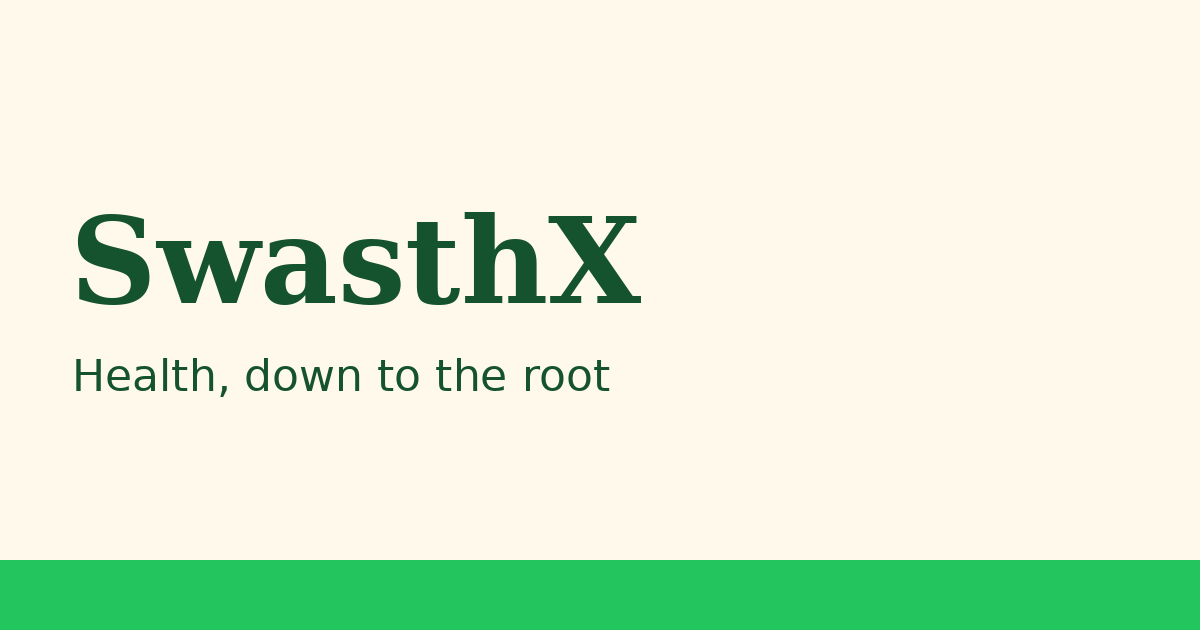
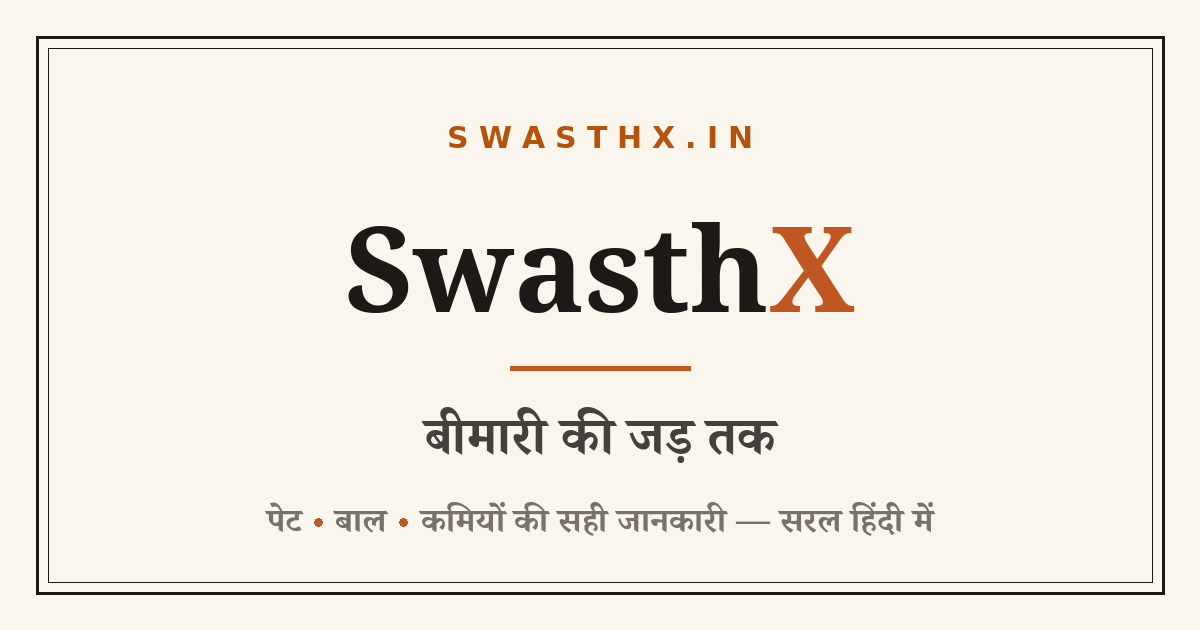
Re-skin: Warm Editorial theme (owner rejected green)

diff --git a/src/styles.css b/src/styles.css
@@ -1,5 +1,5 @@
-/* SwasthX — family-health styles on the KismatUnlock system language.
-   Cream + deep green, soft cards, trust-first. Mobile-first, 48px targets. */
+/* SwasthX — Warm Editorial styles: ivory paper, ink text, hairline rules,
+   terracotta + marigold accents, newspaper feel. Mobile-first, 48px targets. */
 * { box-sizing: border-box; }
 html { scroll-behavior: smooth; }
 body {
@@ -18,9 +18,9 @@ a { color: var(--color-primary); }
 /* Header */
 .site-header {
   position: sticky; top: 0; z-index: 40; display: flex; align-items: center; gap: 0.9rem; flex-wrap: wrap;
-  padding: 0.6rem 1.1rem; background: rgba(255, 249, 236, 0.96); border-bottom: 1px solid var(--color-border); backdrop-filter: blur(6px);
+  padding: 0.6rem 1.1rem; background: rgba(250, 246, 238, 0.96); border-bottom: 3px double var(--rule-strong); backdrop-filter: blur(6px);
 }
-[data-theme="dark"] .site-header { background: rgba(12, 23, 16, 0.96); }
+[data-theme="dark"] .site-header { background: rgba(23, 19, 16, 0.96); }
 .logo { display: flex; align-items: center; gap: 0.55rem; text-decoration: none; color: var(--color-text); margin-right: auto; }
 .logo-leaf { font-size: 1.5rem; }
 .logo-name { font-family: var(--font-display-latin); font-weight: 700; font-size: 1.45rem; color: var(--color-primary); }
@@ -31,23 +31,23 @@ a { color: var(--color-primary); }
 .lang-toggle { display: flex; border: 1.5px solid var(--color-border); border-radius: 999px; overflow: hidden; }
 .lang-toggle button { border: 0; background: transparent; color: var(--color-text); padding: 0.45rem 0.85rem; font-weight: 700; min-height: 40px; cursor: pointer; font-family: inherit; }
 .lang-toggle button.on { background: var(--color-primary); color: #fff; }
-.theme-toggle { border: 1.5px solid var(--color-border); background: var(--cream-2); color: var(--color-text); border-radius: 999px; min-width: 44px; min-height: 40px; font-size: 1.05rem; cursor: pointer; }
+.theme-toggle { border: 1.5px solid var(--color-border); background: var(--paper-2); color: var(--color-text); border-radius: 999px; min-width: 44px; min-height: 40px; font-size: 1.05rem; cursor: pointer; }
 
 /* Popup */
 .popup-scrim { position: fixed; inset: 0; z-index: 50; background: rgba(28, 36, 32, 0.55); display: flex; align-items: center; justify-content: center; padding: 1rem; }
-.popup { background: var(--cream-2); border: 1.5px solid var(--green-500); border-radius: var(--radius-xl); padding: 2rem; max-width: 420px; width: 100%; text-align: center; display: grid; gap: 0.8rem; box-shadow: var(--card-shadow-hover); }
+.popup { background: var(--paper-2); border: 1px solid var(--color-border); border-top: 3px solid var(--color-primary); border-radius: var(--radius-xl); padding: 2rem; max-width: 420px; width: 100%; text-align: center; display: grid; gap: 0.8rem; box-shadow: var(--card-shadow-hover); }
 
 /* Hero / tip */
 .hero { padding: 1.4rem 0 0.4rem; }
 .hero-sub { font-size: 1.1rem; color: var(--color-text-2); max-width: 620px; }
-.tip-card { border: 2px solid var(--green-500); background: var(--card-bg); border-radius: var(--radius-xl); padding: 1.5rem; box-shadow: var(--card-shadow); }
+.tip-card { border: 1px solid var(--color-border); border-top: 3px solid var(--color-accent); background: var(--card-bg); border-radius: var(--radius-xl); padding: 1.5rem; box-shadow: var(--card-shadow); }
 .tip-card .chip { margin-bottom: 0.6rem; }
 .feature-grid { display: grid; gap: 1.1rem; grid-template-columns: 1fr; margin: 1.1rem 0; }
 @media (min-width: 860px) { .feature-grid { grid-template-columns: 1.4fr 1fr; } }
 
 /* Cards & grids */
 .card { background: var(--card-bg); border: var(--card-border); border-radius: var(--radius-lg); box-shadow: var(--card-shadow); padding: 1.25rem; }
-.section-title { margin: 2.1rem 0 1rem; }
+.section-title { margin: 2.1rem 0 1rem; border-top: 1px solid var(--color-border); padding-top: 1.3rem; }
 .two-col { display: grid; gap: 1rem; grid-template-columns: 1fr; }
 @media (min-width: 700px) { .two-col { grid-template-columns: 1fr 1fr; } }
 .three-col { display: grid; gap: 1rem; grid-template-columns: 1fr; }
@@ -57,15 +57,15 @@ a { color: var(--color-primary); }
 .tool-card:active, .story-card:active { transform: scale(0.985); }
 .tool-card strong, .story-card strong { display: block; font-size: 1.05rem; margin-bottom: 0.25rem; }
 .tool-card span, .story-card span { color: var(--color-text-2); font-size: 0.94rem; }
-.chip { display: inline-block; background: var(--green); color: #fff; border-radius: 999px; padding: 0.18rem 0.7rem; font-size: 0.78rem; font-weight: 700; }
-[data-theme="dark"] .chip { background: #166534; }
+.chip { display: inline-block; background: var(--color-accent); color: #fff; border-radius: 999px; padding: 0.18rem 0.7rem; font-size: 0.78rem; font-weight: 700; letter-spacing: 0.04em; }
+[data-theme="dark"] .chip { background: var(--color-accent); color: #171310; }
 .stack { display: grid; gap: 1rem; }
 
 /* Buttons */
 .btn { display: inline-flex; align-items: center; justify-content: center; gap: 0.4rem; border-radius: var(--radius); min-height: 48px; padding: 0.7rem 1.3rem; font-weight: 700; font-size: 1rem; text-decoration: none; border: 1px solid transparent; cursor: pointer; transition: transform 100ms ease-out, background-color 150ms ease-out; font-family: inherit; }
 .btn:active { transform: scale(0.97); }
 .btn-primary { background: var(--btn-bg); color: var(--btn-text); }
-.btn-ghost { background: var(--cream-2); border-color: var(--green-500); color: var(--color-primary); }
+.btn-ghost { background: var(--paper-2); border-color: var(--color-primary); color: var(--color-primary); }
 .btn.big { width: 100%; }
 
 /* Tools */
@@ -73,7 +73,7 @@ a { color: var(--color-primary); }
 @media (min-width: 640px) { .tool-form { grid-template-columns: 1fr 1fr; } }
 .field { display: flex; flex-direction: column; gap: 0.3rem; font-weight: 600; font-size: 0.95rem; }
 .tool-form input, .tool-form select { min-height: 48px; border: 1.5px solid var(--color-border); border-radius: var(--radius); padding: 0.6rem 0.85rem; font-size: 1rem; font-family: inherit; background: var(--color-surface); color: var(--color-text); width: 100%; }
-.result-card { background: var(--cream-2); border: 1.5px solid var(--green-500); border-radius: var(--radius-lg); padding: 1.2rem; margin: 1rem 0; }
+.result-card { background: var(--paper-2); border: 1px solid var(--color-border); border-top: 3px solid var(--color-accent); border-radius: var(--radius-lg); padding: 1.2rem; margin: 1rem 0; }
 .result-grid { display: grid; gap: 0.9rem; grid-template-columns: repeat(auto-fit, minmax(140px, 1fr)); }
 .result-item label { display: block; font-size: 0.8rem; font-weight: 700; color: var(--color-text-muted); }
 .result-item strong { font-size: 1.4rem; }
@@ -82,33 +82,34 @@ a { color: var(--color-primary); }
 .note.warn { color: var(--red); font-weight: 600; }
 .steps-list { margin: 0; padding-left: 1.25rem; display: grid; gap: 0.5rem; }
 .check-row { display: flex; gap: 0.6rem; align-items: flex-start; padding: 0.55rem 0; border-top: 1px solid var(--color-border); font-weight: 500; }
-.check-row input { width: 22px; height: 22px; margin-top: 0.15rem; accent-color: var(--green); flex: none; }
+.check-row input { width: 22px; height: 22px; margin-top: 0.15rem; accent-color: var(--color-primary); flex: none; }
 
 /* Article trust system */
 .article { max-width: 780px; }
 .article-intro { font-size: 1.12rem; color: var(--color-text-2); }
-.reviewer-line { display: flex; gap: 0.6rem; align-items: center; background: var(--cream-2); border: 1px solid var(--color-border); border-radius: var(--radius-lg); padding: 0.8rem 1rem; font-size: 0.93rem; margin-bottom: 1.2rem; flex-wrap: wrap; }
+.reviewer-line { display: flex; gap: 0.6rem; align-items: center; background: var(--paper-2); border: 1px solid var(--color-border); border-radius: var(--radius-lg); padding: 0.8rem 1rem; font-size: 0.93rem; margin-bottom: 1.2rem; flex-wrap: wrap; }
 .article h2 { margin-top: 1.7rem; }
 .redflag-box { border: 2px solid var(--red); background: var(--red-bg); border-radius: var(--radius-lg); padding: 1.1rem 1.25rem; margin: 1.5rem 0; }
 .redflag-box h2, .redflag-box h3 { color: var(--red); margin-top: 0; }
 .sources-list { font-size: 0.9rem; color: var(--color-text-2); border-top: 1px solid var(--color-border); padding-top: 1rem; margin-top: 1.6rem; }
 .sources-list li { margin-bottom: 0.3rem; }
-.trust-strip { background: var(--green); color: #eafbea; border-radius: var(--radius-xl); padding: 1.4rem; margin: 1.6rem 0; }
-[data-theme="dark"] .trust-strip { background: #14532d; }
+.trust-strip { background: var(--ink); color: #f3ede2; border-radius: var(--radius-xl); padding: 1.4rem; margin: 1.6rem 0; }
+[data-theme="dark"] .trust-strip { background: var(--color-surface); border: 1px solid var(--color-border); }
 .trust-strip h2 { color: #fff; }
-.trust-strip p { color: #d9f2d9; margin: 0; }
+.trust-strip p { color: #ddd3bf; margin: 0; }
+[data-theme="dark"] .trust-strip p { color: var(--color-text-2); }
 
 /* Affiliate product card */
 .product-card { margin: 1.6rem 0; }
 .product-card h2 { margin-top: 0; }
 .product-list { list-style: none; margin: 0 0 0.8rem; padding: 0; display: grid; gap: 0.6rem; }
 .product-list a { display: flex; justify-content: space-between; align-items: center; gap: 0.8rem; min-height: 48px; padding: 0.6rem 0.85rem; border: 1.5px solid var(--color-border); border-radius: var(--radius); text-decoration: none; color: var(--color-text); font-weight: 600; background: var(--color-surface); }
-.product-list a:hover { border-color: var(--green-500); }
+.product-list a:hover { border-color: var(--color-primary); }
 .product-cta { color: var(--color-primary); font-size: 0.92rem; white-space: nowrap; }
 .product-disclosure { font-size: 0.82rem; margin: 0; }
 
 /* Footer */
-.site-footer { border-top: 1px solid var(--color-border); margin-top: 3rem; padding: 1.6rem 1.1rem 2.4rem; text-align: center; }
+.site-footer { border-top: 3px double var(--rule-strong); margin-top: 3rem; padding: 1.6rem 1.1rem 2.4rem; text-align: center; }
 .site-footer .disclaimer { max-width: 720px; margin: 0.6rem auto; color: var(--color-text-2); font-size: 0.9rem; }
 .muted { color: var(--color-text-muted); font-size: 0.88rem; }
 .ad-slot { min-height: 90px; display: flex; align-items: center; justify-content: center; margin: 1.2rem 0; }

diff --git a/src/tokens.css b/src/tokens.css
@@ -1,38 +1,40 @@
-/* SwasthX — green sibling of the KismatUnlock family system: warm cream,
-   deep green primary, Playfair + Noto Sans, dark = deep green night. */
+/* SwasthX — Warm Editorial: warm ivory paper, terracotta + marigold accents,
+   ink text, hairline rules instead of shadows, Playfair + Noto Sans.
+   Dark = warm charcoal-brown night. (Owner rejected the old deep-green
+   theme on 2026-10-13.) */
 :root {
-  --green-900: #0b3520;
-  --green: #14532d;
-  --green-soft: #1d6b3c;
-  --green-500: #22c55e;
-  --gold: #d97706;
-  --cream: #fff9ec;
-  --cream-2: #fffdf6;
-  --ink: #1c2420;
-  --ink-2: #44503f;
-  --muted: #75816f;
+  --terra: #c05621;
+  --terra-deep: #9c4218;
+  --marigold: #b45309;
+  --paper: #faf6ee;
+  --paper-2: #fcfbf7;
+  --ink: #1c1917;
+  --ink-2: #44403c;
+  --muted: #78716c;
+  --line: #e5dfd2;
+  --rule-strong: #1c1917;
   --red: #b91c1c;
   --red-bg: #fdeaea;
 
-  --color-primary: var(--green);
-  --color-primary-deep: var(--green-900);
-  --color-accent: var(--gold);
-  --color-bg: var(--cream);
+  --color-primary: var(--terra);
+  --color-primary-deep: var(--terra-deep);
+  --color-accent: var(--marigold);
+  --color-bg: var(--paper);
   --color-surface: #ffffff;
   --color-text: var(--ink);
   --color-text-2: var(--ink-2);
   --color-text-muted: var(--muted);
-  --color-border: rgba(20, 83, 45, 0.28);
+  --color-border: var(--line);
 
   --btn-bg: var(--color-primary);
   --btn-text: #ffffff;
   --card-bg: var(--color-surface);
   --card-border: 1px solid var(--color-border);
-  --card-shadow: 0 4px 20px -2px rgba(20, 83, 45, 0.06), 0 2px 6px -1px rgba(217, 119, 6, 0.05);
-  --card-shadow-hover: 0 10px 25px -4px rgba(20, 83, 45, 0.12), 0 4px 10px -2px rgba(217, 119, 6, 0.08);
-  --radius: 8px;
-  --radius-lg: 16px;
-  --radius-xl: 24px;
+  --card-shadow: 0 1px 2px rgba(28, 25, 23, 0.04);
+  --card-shadow-hover: 0 3px 10px -2px rgba(28, 25, 23, 0.12);
+  --radius: 6px;
+  --radius-lg: 8px;
+  --radius-xl: 10px;
 
   --font-display: "Tiro Devanagari Hindi", "Playfair Display", serif;
   --font-display-latin: "Playfair Display", "Tiro Devanagari Hindi", serif;
@@ -40,18 +42,29 @@
 }
 
 [data-theme="dark"] {
-  --color-primary: #4ade80;
-  --color-primary-deep: #bbf7d0;
-  --color-bg: #0c1710;
-  --color-surface: #14231a;
-  --color-text: #eaf3e4;
-  --color-text-2: #c3d4b8;
-  --color-text-muted: #93a58a;
-  --color-border: rgba(74, 222, 128, 0.35);
-  --cream: #16281c;
-  --cream-2: #122016;
+  --terra: #e08a4c;
+  --terra-deep: #eda76b;
+  --marigold: #e19a3c;
+  --paper: #171310;
+  --paper-2: #241d16;
+  --ink: #f3ede2;
+  --ink-2: #d8cfc2;
+  --muted: #a39887;
+  --line: #3e362c;
+  --rule-strong: #4a4036;
+
+  --color-primary: var(--terra);
+  --color-primary-deep: var(--terra-deep);
+  --color-accent: var(--marigold);
+  --color-bg: #171310;
+  --color-surface: #221c16;
+  --color-text: #f3ede2;
+  --color-text-2: #d8cfc2;
+  --color-text-muted: #a39887;
+  --color-border: var(--line);
   --red-bg: #450a0a;
-  --btn-bg: #166534;
-  --card-shadow: 0 4px 20px -2px rgba(0, 0, 0, 0.5);
-  --card-shadow-hover: 0 10px 25px -4px rgba(0, 0, 0, 0.6);
+  --btn-bg: #e08a4c;
+  --btn-text: #171310;
+  --card-shadow: 0 1px 2px rgba(0, 0, 0, 0.45);
+  --card-shadow-hover: 0 3px 10px -2px rgba(0, 0, 0, 0.6);
 }

diff --git a/index.html b/index.html
@@ -3,6 +3,7 @@
   <head>
     <meta charset="UTF-8" />
     <meta name="viewport" content="width=device-width, initial-scale=1.0" />
+    <meta name="theme-color" content="#FAF6EE" />
     <title>SwasthX — बीमारी की जड़ तक | पेट, बाल और विटामिन की कमी की सही जानकारी</title>
     <meta name="description" content="रोज़ का health tip, पेट-बाल-कमी की जड़ से जानकारी, और मुफ़्त tools: BMI, Vitamin D/B12 कमी checker, lab report reader, period calculator. सरल हिंदी में, sources के साथ।" />
     <script>try{var t=localStorage.getItem('sx-theme');if(t!=='dark'&&t!=='light')t=window.matchMedia('(prefers-color-scheme: dark)').matches?'dark':'light';document.documentElement.dataset.theme=t;}catch(e){}</script>

diff --git a/BUILD-RULES.md b/BUILD-RULES.md
@@ -1,5 +1,5 @@
 # SwasthX — Build Rules
-- Green sibling of the KismatUnlock family system: cream #FFF9EC, deep green #14532D, gold sparingly, Playfair + Noto Sans Devanagari. Dark = deep green night, toggle key 'sx-theme'. Hindi-first: first-visit language popup + header toggle ('sx-lang').
+- Warm Editorial design (owner rejected the old deep-green theme on 2026-10-13): ivory #FAF6EE paper, terracotta #C05621 primary, marigold #B45309 accent, ink #1C1917, hairline rules; dark = warm charcoal (#171310 bg). Playfair + Noto Sans Devanagari. Theme toggle key 'sx-theme'. Hindi-first: first-visit language popup + header toggle ('sx-lang').
 - Clusters ONLY: gut, hair, deficiency. Every article: sources listed, "डॉक्टर को कब दिखाएं" red-flag box, educational framing.
 - HARD YMYL rules: NO diagnosis ("संभावना" only), NO treatment/medicine/dosage recommendations, NO miracle claims or fear language; supplements = "doctor ki salah" only; emergency symptoms → hospital/112 guidance.
 - NEVER claim doctor review until a real named medical reviewer exists. The reviewer-line UI shows the sources basis honestly.
